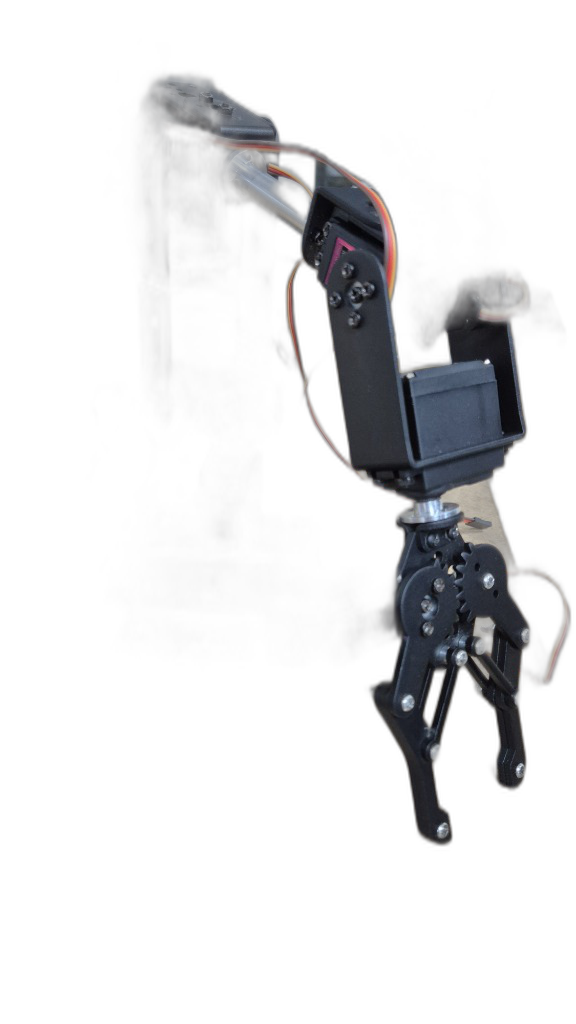
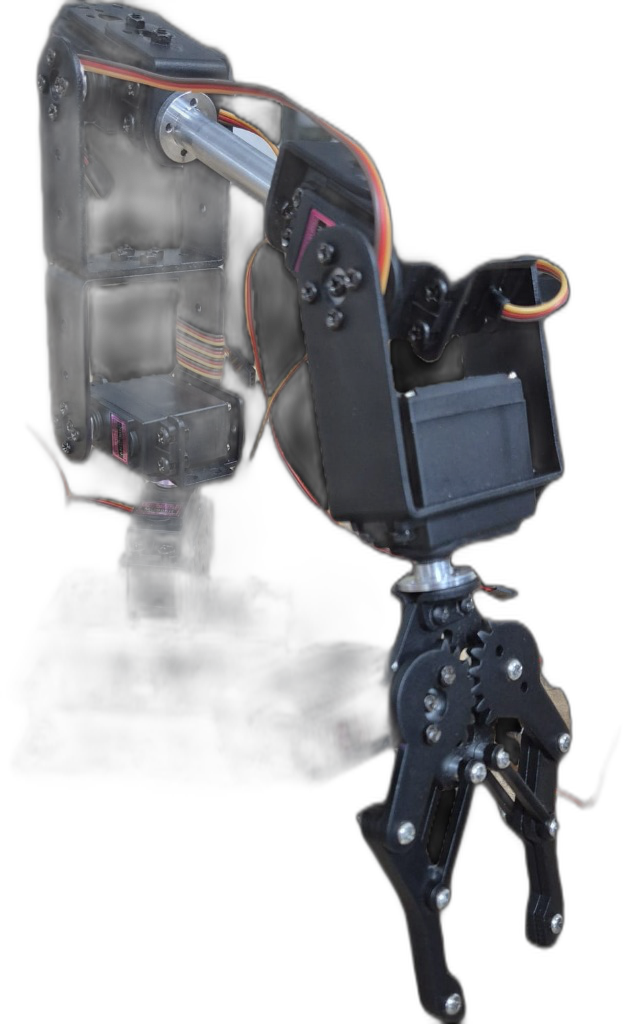
Update robot arm photo and remove text

diff --git a/Website/index.html b/Website/index.html
@@ -160,8 +160,6 @@
             <div class="robot-arm-showcase animate-on-scroll" style="margin-top: 80px; text-align: center; position: relative;">
                 <div style="position: absolute; top: 50%; left: 50%; transform: translate(-50%, -50%); width: 350px; height: 350px; background: var(--gradient-main); filter: blur(120px); opacity: 0.25; z-index: 0;"></div>
                 <img src="robot_arm.png" alt="Prosthetic Robotic Arm" style="max-width: 100%; height: auto; max-height: 500px; position: relative; z-index: 1; filter: drop-shadow(0 20px 40px rgba(0,0,0,0.6));">
-                <h3 style="margin-top: 30px; font-size: 2rem;">Custom 3D-Printed <span class="gradient-text">Prosthetic Arm</span></h3>
-                <p style="color: var(--text-secondary); max-width: 600px; margin: 15px auto 0; font-size: 1.1rem; line-height: 1.6;">Our physical mechanical design is fully actuated using micro-servos. It is controlled precisely by the STM32, which generates PWM signals translated directly from the classified EMG patterns.</p>
             </div>
         </div>
     </section>